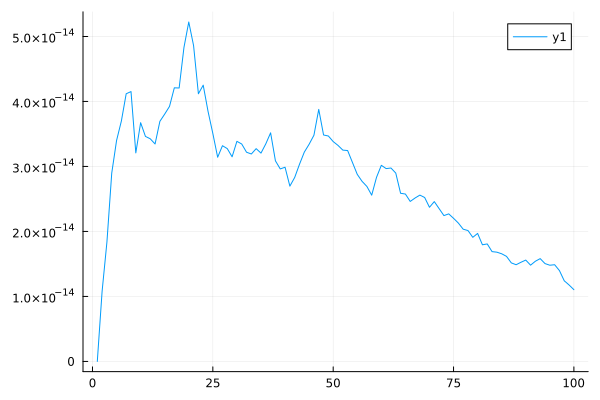
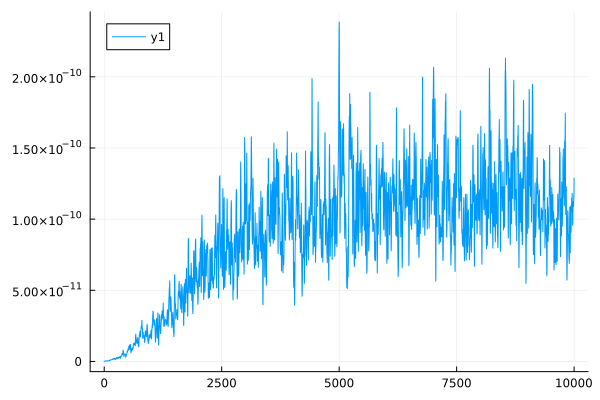
Adam in direct compare

diff --git a/test.py b/test.py
@@ -7,14 +7,25 @@ import pickle
 
 w = torch.rand(5, 10, requires_grad=True)
 
-optimizer = torch.optim.SGD([w], lr=0.1)
+optimizer = torch.optim.Adam([w], lr=0.1)
 
-for i in range(100):
-    x = torch.rand(1,5)
+ntest = 10000
+
+for i in range(ntest):
+    x = torch.rand(1,5) * 2 - 1
+    y = torch.rand(1,10) * 2 - 1
+
     torch.save(x, f"compare/x{i}.pt")
+    torch.save(y, f"compare/y{i}.pt")
     torch.save(w, f"compare/w{i}.pt")
+
     optimizer.zero_grad()
-    y = x.mm(w)
-    loss = (y**2).sum()
+    yhat = x.mm(w)
+    
+    loss = torch.nn.functional.mse_loss(yhat, y)
+
     loss.backward()
     optimizer.step()
+
+    print(f"Generating tests... {i*100/ntest}%", end="\r")
+print("Generating tests... done  ")
